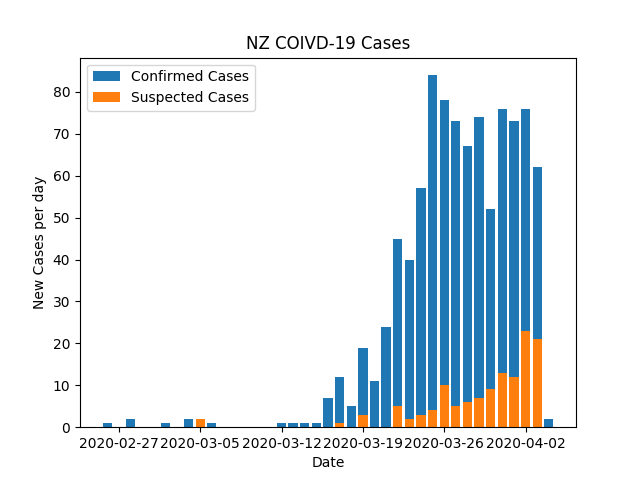
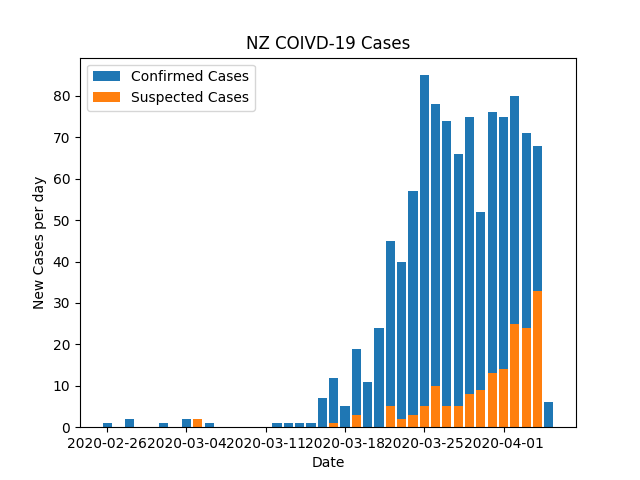
Updated data, added import country graph

diff --git a/NZModel/nz_data.py b/NZModel/nz_data.py
@@ -29,6 +29,7 @@ header=3
 #filename = "./covid-19_case_list_2_april_2020.xlsx"
 #filename = "./covid-19-case-details-update-3-april-2020.xlsx"
 filename = "./covid-19-case-details-update-4-april-2020.xlsx"
+#filename = "./covid-casedetialsupdate-5april.xlsx"
 
 # Confirmed Infection Cases
 data_conf = pd.read_excel(filename, header=header)
@@ -44,7 +45,7 @@ rates = rates.sort_index()
 rates_sus = data_sus[date_column_sus].value_counts().sort_index()
 
 # Total = Confirmed + Suspected
-rates_total = rates_sus.add(rates, fill_value = 0)
+rates_total = rates.add(rates_sus, fill_value = 0)
 
 # Concatenate all data for summary statistics
 data = data_conf.append(data_sus, sort=True)
@@ -274,12 +275,23 @@ def plot_demographics():
     plt.gca().set_aspect("equal")
 
     plt.savefig("Pies.png")
+    
+    ###################################################################
+    #   Imports
+    ###################################################################
+    
+    plt.figure()
+    pi = data.pivot_table(values="Count", index = ["Last country before return"], aggfunc="count")["Count"]
+    pi.plot.barh()
+    plt.title("Last Contry Before Return")
+    plt.tight_layout()
+    plt.savefig("ImportedCases.png")
 
 
 if __name__ == "__main__":
-    plot_new()
-    plot_total()
-    plot_dhb()
+    #plot_new()
+    #plot_total()
+    #plot_dhb()
     plot_demographics()
 
     plt.show()

diff --git a/README.md b/README.md
@@ -89,6 +89,8 @@ The latter has a large number of cases of infection, and subsequently deaths, so
 
 Moving away from the simulations, we can take a look at some real data. Firstly, let's look at some summary statistics of New Zealand's data. Note that the numbers for the last day on these plots represent a less than 24 hour period, and are hence not representative.
 
+Also note that my new cases plot doesn't match the numbers reported by the Ministry of Health (MoH). These graphs are generated from the report data provided, but the MoH back-dates some of these cases, so they show up on the back-date on the following plot, but not in the MoH's totals.
+
 #### New Cases
 
 ![NZ's new cases per day](https://raw.githubusercontent.com/mchilcott/TrackingCOVID19/master/NZModel/NZCasesPerDay.png)
@@ -114,7 +116,11 @@ We can also look at the relationship between age, sex and DHB region of the infe
 
 ![Cases in Age group by Sex](https://raw.githubusercontent.com/mchilcott/TrackingCOVID19/master/NZModel/AgeSex.png)
 
-![Cases by Sex](https://raw.githubusercontent.com/mchilcott/TrackingCOVID19/master/NZModel/Pies.png)
+![Cases by Sex, Travel](https://raw.githubusercontent.com/mchilcott/TrackingCOVID19/master/NZModel/Pies.png)
+
+For those cases that have involved international travel, we can also see the sources we may have imported COVID-19 from.
+
+![Cases by Country, Imported](https://raw.githubusercontent.com/mchilcott/TrackingCOVID19/master/NZModel/ImportedCases.png)
 
 #### Simulations
 
